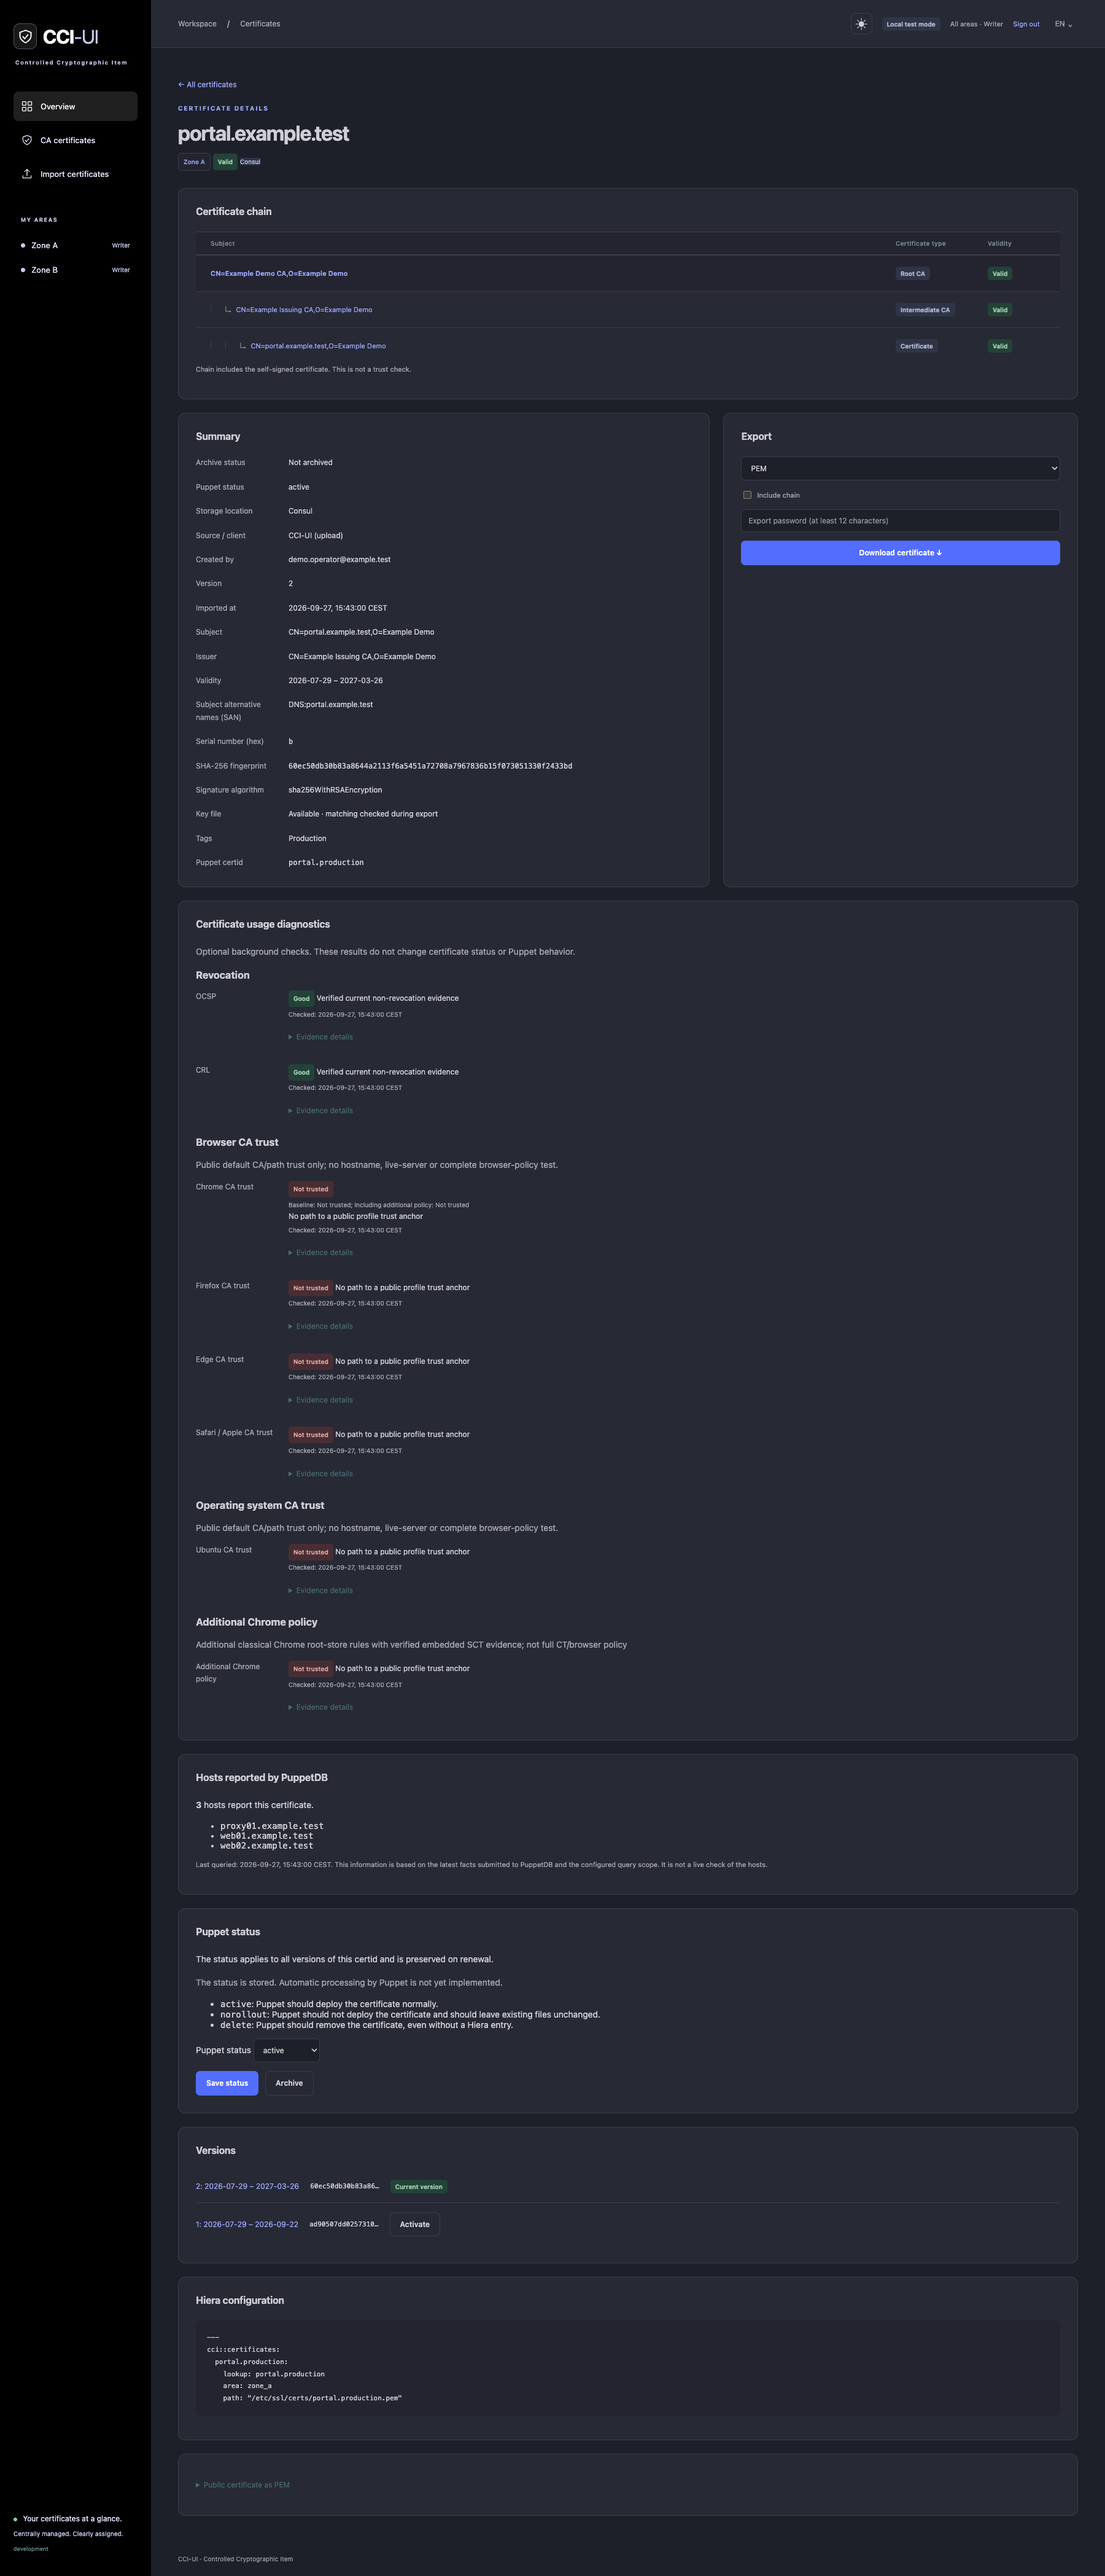
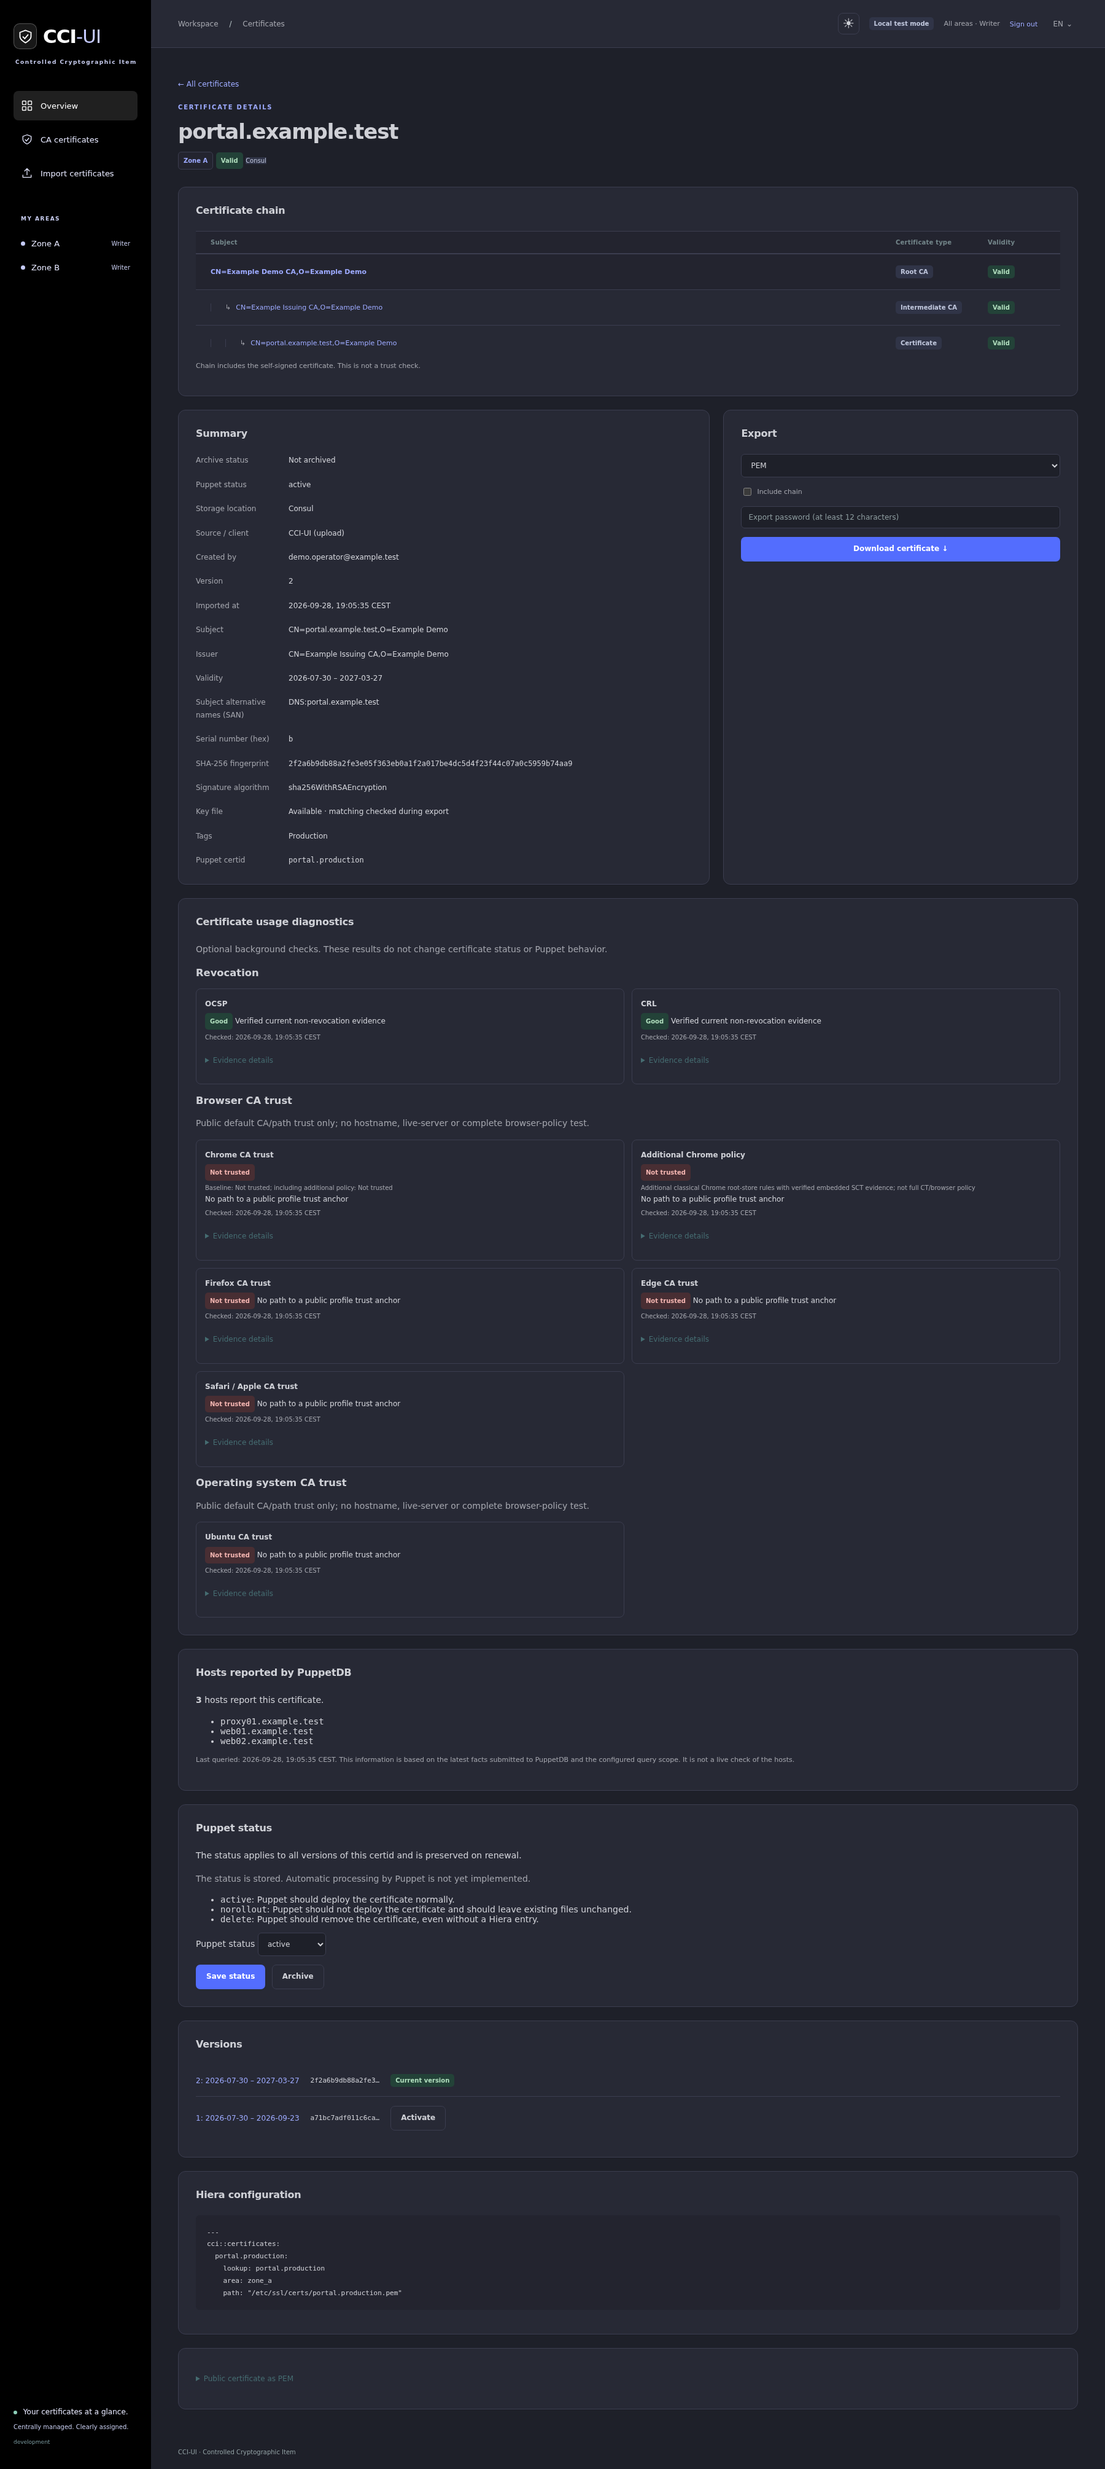
feat(diagnostics): compact certificate usage results

diff --git a/app/assets/stylesheets/application.css b/app/assets/stylesheets/application.css
@@ -970,3 +970,10 @@ main.full-width { max-width: none; }
 
 .certificate-diagnostics dd > small { display: block; color: var(--muted); margin-top: .25rem; }
 .certificate-diagnostics details { margin-top: .35rem; }
+.detail-panel dl.certificate-diagnostics { grid-template-columns: repeat(2, minmax(0, 1fr)); gap: 12px; }
+.certificate-diagnostics .diagnostic-item { min-width: 0; padding: 14px; border: 1px solid var(--line); border-radius: 8px; }
+.certificate-diagnostics .diagnostic-item > dt { color: var(--ink); font-weight: 600; margin-bottom: .35rem; }
+.certificate-diagnostics .diagnostic-item > dd { margin: 0; }
+@media (max-width: 760px) {
+  .detail-panel dl.certificate-diagnostics { grid-template-columns: 1fr; }
+}

diff --git a/test/integration/certificate_diagnostics_test.rb b/test/integration/certificate_diagnostics_test.rb
@@ -45,8 +45,8 @@ class CertificateDiagnosticsRenderingTest < ActionDispatch::IntegrationTest
         get certificate_path(record, locale: locale)
         assert_response :success
         assert_select "#diagnostics-heading", count: enabled.empty? ? 0 : 1
-        assert_select ".certificate-diagnostics > dt", text: "OCSP", count: enabled.include?("ocsp") ? 1 : 0
-        assert_select ".certificate-diagnostics > dt", text: "CRL", count: enabled.include?("crl") ? 1 : 0
+        assert_select ".certificate-diagnostics .diagnostic-item > dt", text: "OCSP", count: enabled.include?("ocsp") ? 1 : 0
+        assert_select ".certificate-diagnostics .diagnostic-item > dt", text: "CRL", count: enabled.include?("crl") ? 1 : 0
         assert_select ".certificate-diagnostics .badge.success", count: enabled.size
         assert_select ".certificate-diagnostics .badge.neutral", count: 0
       end
@@ -64,7 +64,7 @@ class CertificateDiagnosticsRenderingTest < ActionDispatch::IntegrationTest
       %w[en de].each do |locale|
         get certificate_path(record, locale: locale)
         assert_response :success
-        assert_select ".certificate-diagnostics > dt", count: 1
+        assert_select ".certificate-diagnostics .diagnostic-item > dt", count: 1
         assert_select ".certificate-diagnostics .badge.neutral", count: 1
         assert_not_includes response.body, "translation missing"
       end
@@ -87,8 +87,10 @@ class CertificateDiagnosticsRenderingTest < ActionDispatch::IntegrationTest
       get certificate_path(record, locale: locale)
       assert_response :success
       assert_select ".certificate-diagnostics .badge.success", count: 0
+      assert_select ".certificate-diagnostics-browsers .diagnostic-item > dt", count: 2
       assert_not_includes response.body, "translation missing"
     end
+    assert_select '.certificate-diagnostics-browsers [data-check="trust_chrome"] + [data-check="chrome_policy"]', count: 1
     policy = CertificateDiagnosticResult.create!(area: record.area, fingerprint: record.fingerprint, check_id: "chrome_policy",
       state: "unknown", reason: "chrome_policy_incomplete", checked_at: Time.current, next_due_at: Time.current)
     get certificate_path(record)
@@ -102,7 +104,7 @@ class CertificateDiagnosticsRenderingTest < ActionDispatch::IntegrationTest
     ENV["CCI_CHROME_POLICY_ENABLED"] = "false"
     get certificate_path(record)
     assert_select ".certificate-diagnostics .badge.success", count: 1
-    assert_select ".certificate-diagnostics > dt", text: "Additional Chrome policy", count: 0
+    assert_select ".certificate-diagnostics .diagnostic-item > dt", text: "Additional Chrome policy", count: 0
   ensure
     previous&.each { |name, value| ENV[name] = value }
   end

diff --git a/lib/certificate_diagnostics_configuration.rb b/lib/certificate_diagnostics_configuration.rb
@@ -42,9 +42,10 @@ class CertificateDiagnosticsConfiguration
   def [](key) = limits.fetch(key.to_s)
 
   def groups
-    { "revocation" => %w[ocsp crl], "browsers" => %w[trust_chrome trust_firefox trust_edge trust_apple],
-      "system" => %w[trust_ubuntu], "policy" => %w[chrome_policy] }
-      .transform_values { |checks| checks & enabled }.reject { |_, checks| checks.empty? }
+    groups = { "revocation" => %w[ocsp crl], "browsers" => %w[trust_chrome trust_firefox trust_edge trust_apple],
+               "system" => %w[trust_ubuntu] }.transform_values { |checks| checks & enabled }.reject { |_, checks| checks.empty? }
+    groups["browsers"].insert(1, "chrome_policy") if enabled?("chrome_policy")
+    groups
   end
 
   def version(check)

diff --git a/docs/certificate-diagnostics.md b/docs/certificate-diagnostics.md
@@ -7,6 +7,8 @@ default. The checks and result semantics below apply to both modes.
 Diagnostics are optional, read-only observations on the certificate detail page.
 Only enabled checks appear. When all checks are disabled, the entire diagnostics
 section is hidden; disabled checks show no status, even if earlier evidence is stored.
+OCSP and CRL appear side by side on wider screens. Additional Chrome policy
+appears beside Chrome CA trust in the browser group; checks stack on narrow screens.
 They do not change date status, summary counts, imports, CSR publication, exports,
 activation, archiving or Puppet behavior. German and English statuses include text
 as well as color. A self-signed certificate receives a neutral not-applicable
